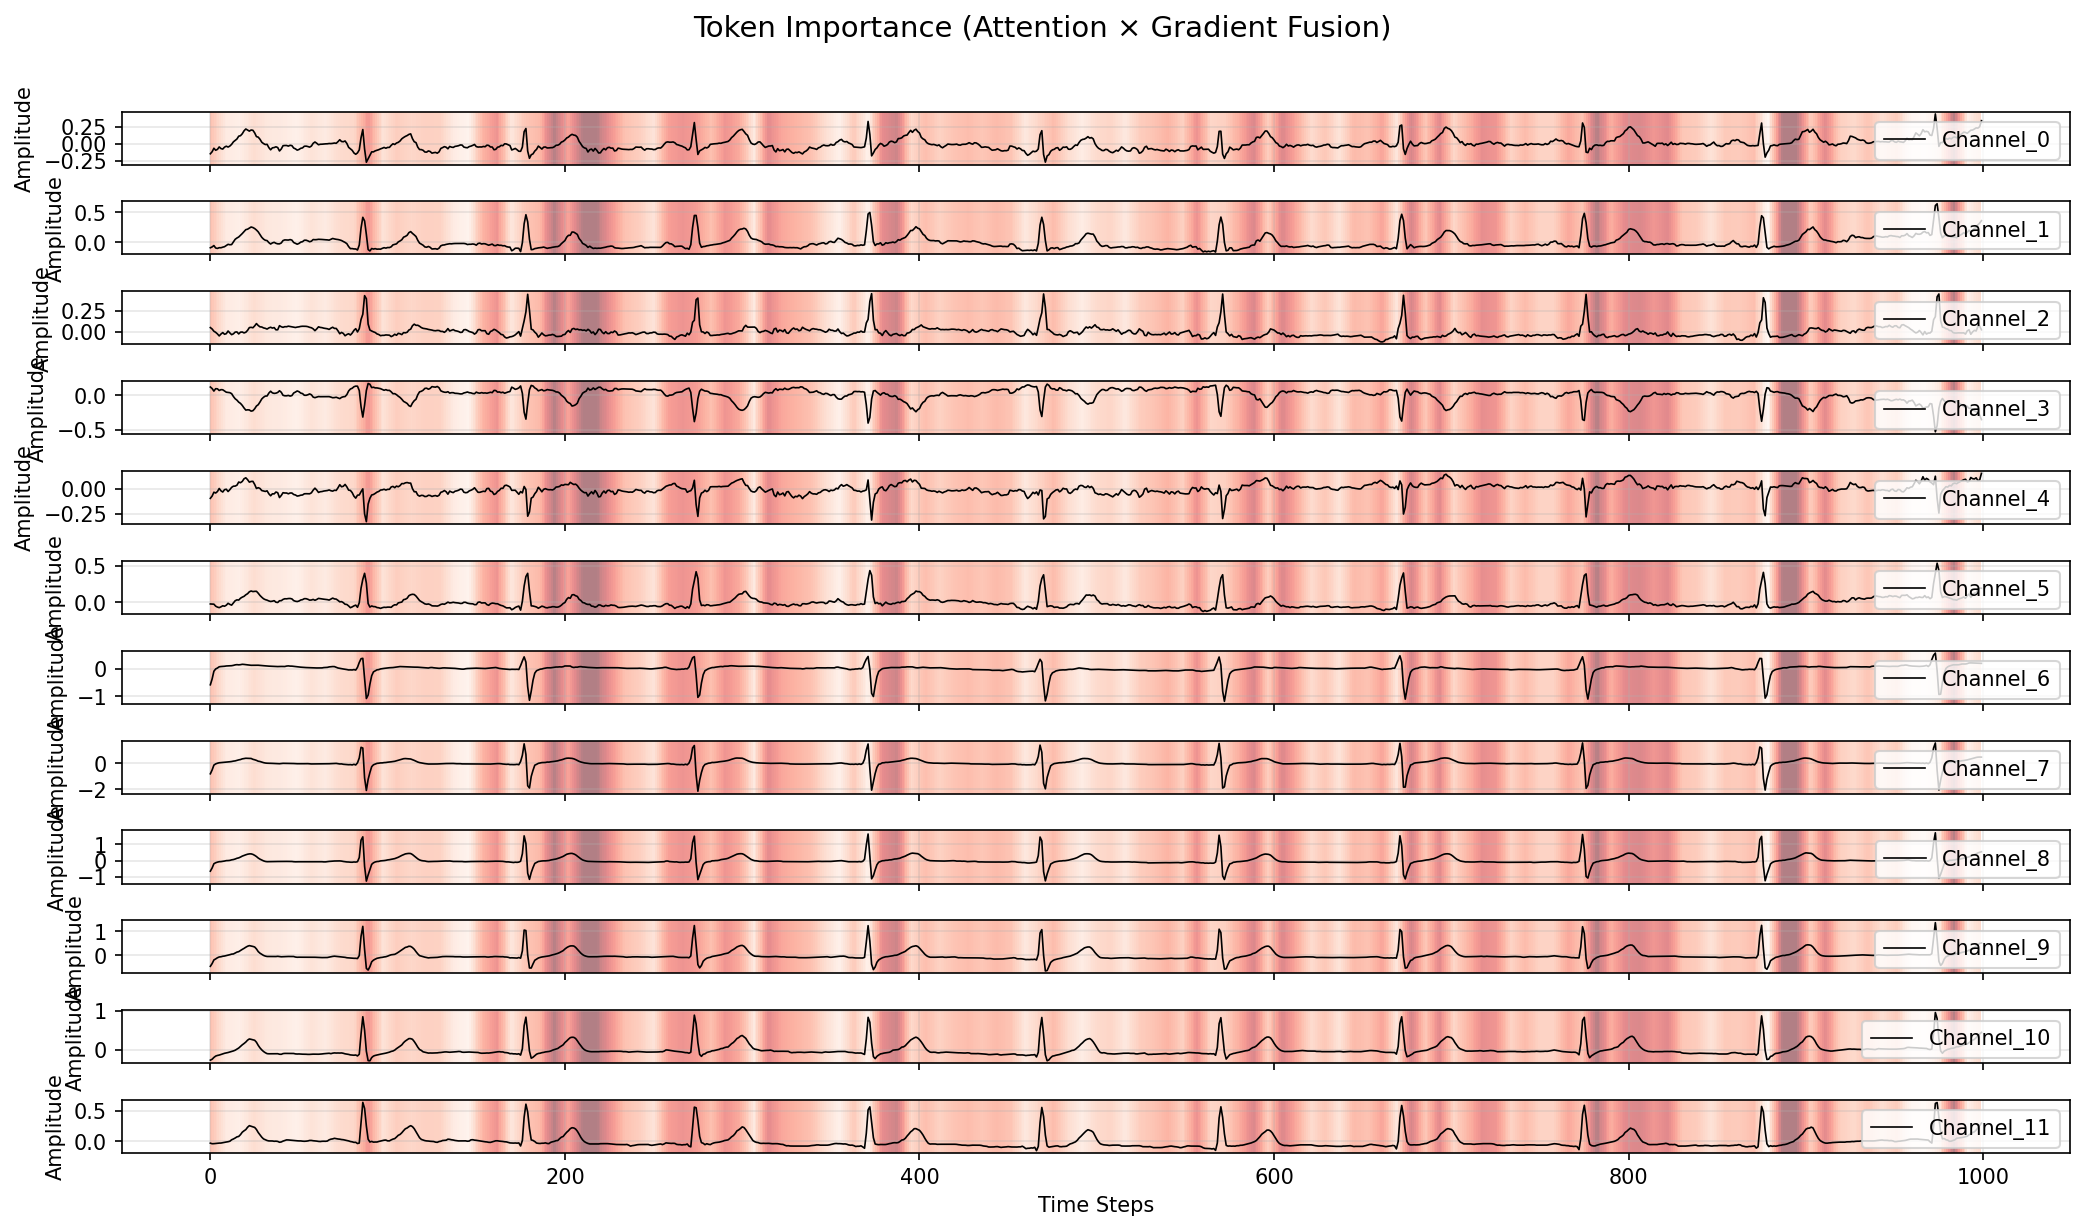
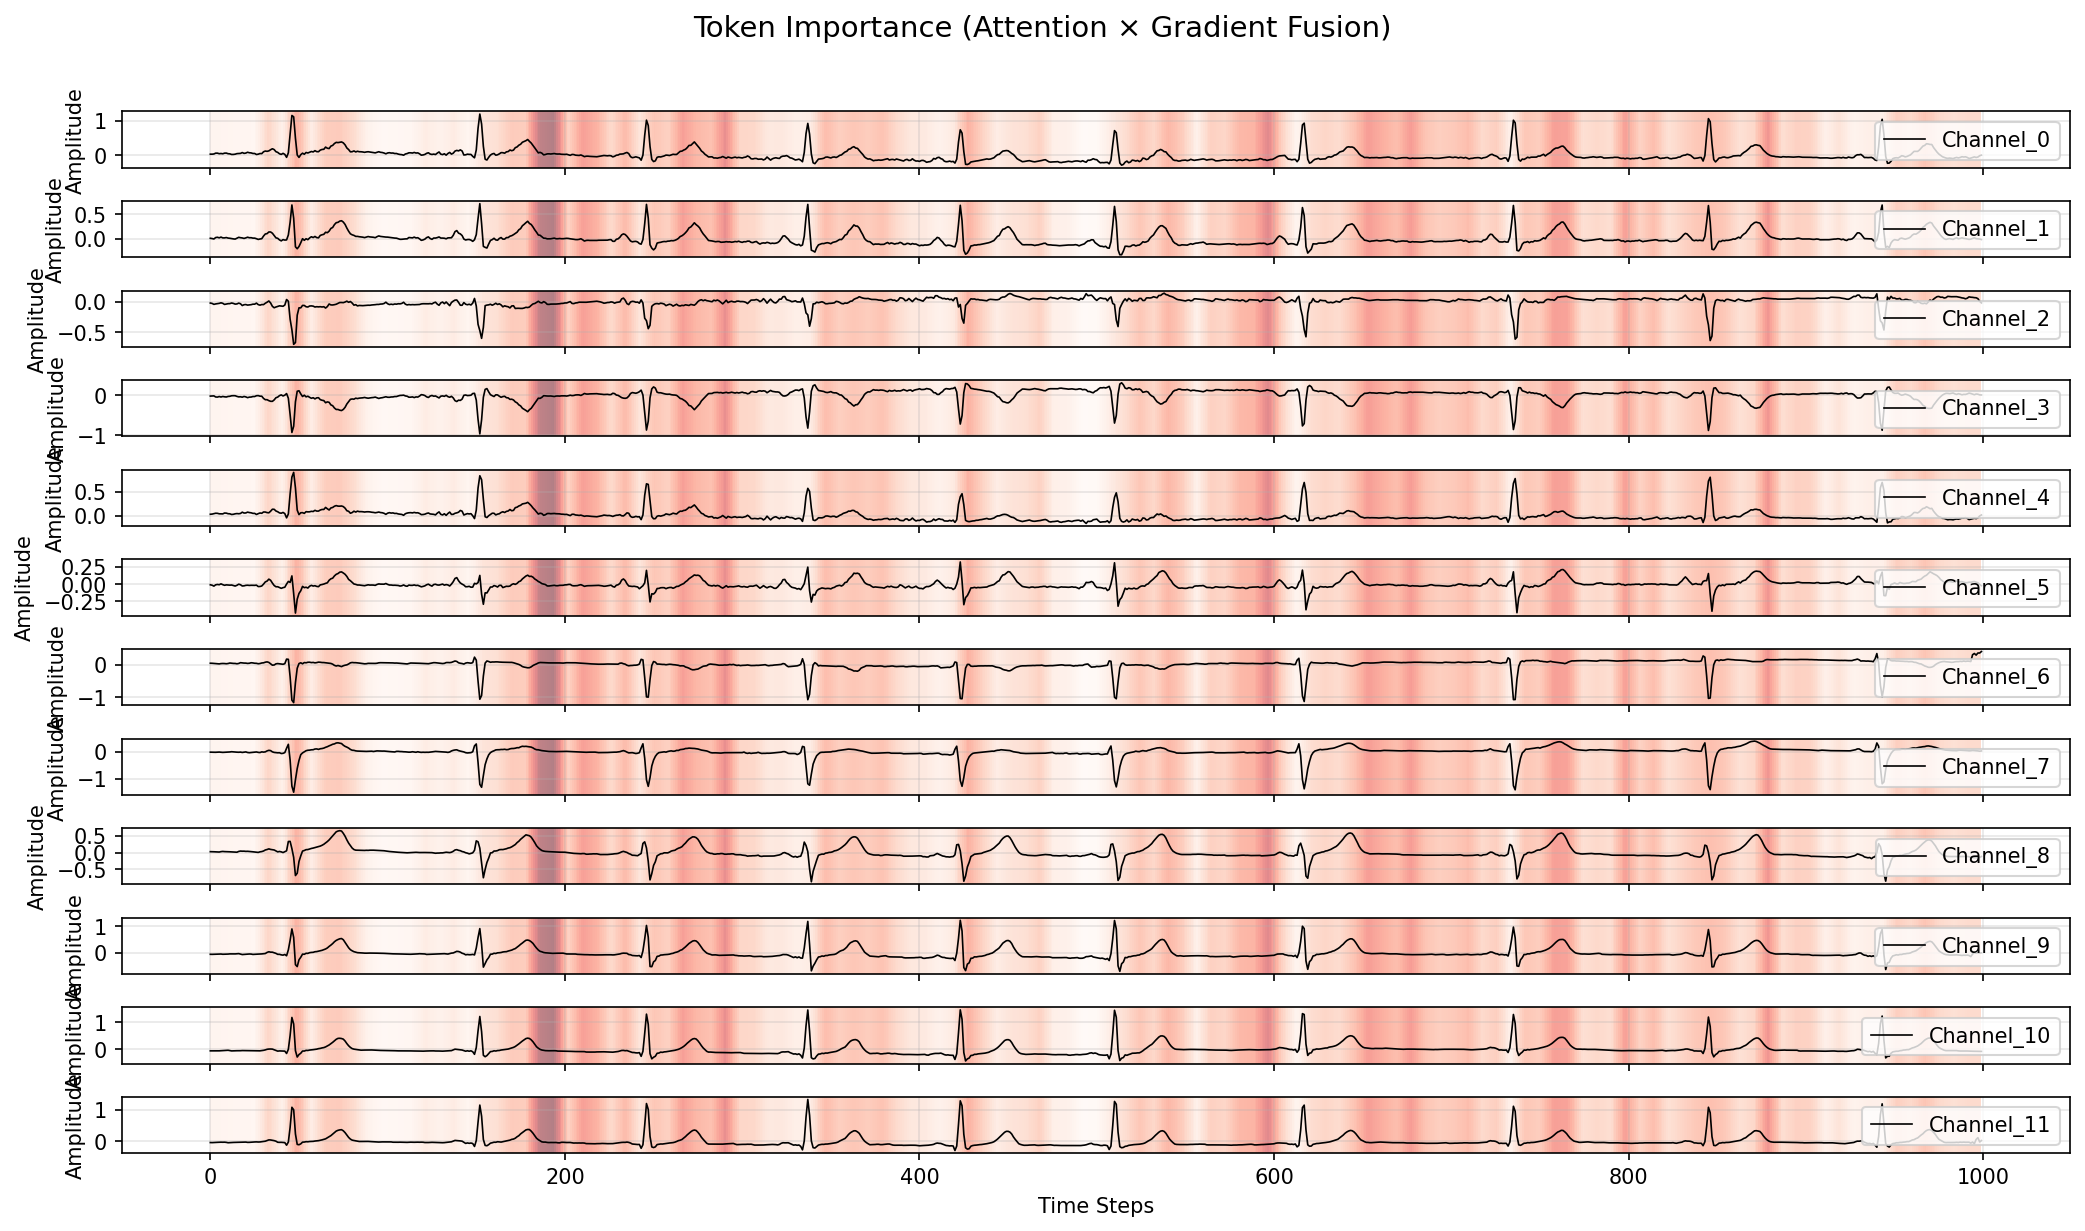
update

diff --git a/visualization/heatmap.py b/visualization/heatmap.py
@@ -351,6 +351,7 @@ class HeatmapRenderer:
         save_path: Optional[str] = None,
         background_image: Optional[Tensor] = None,
         alpha: float = 0.6,
+        original_signal: Optional[Tensor] = None,  # 新增：原始波形数据
     ) -> Optional[Figure]:
         """
         渲染四象限图，使用离散 colormap（4 种颜色）。
@@ -362,6 +363,7 @@ class HeatmapRenderer:
             save_path: 保存路径，None 则返回 Figure，传入则保存并 close。
             background_image: 背景原图 (C, H, W) 或 (H, W, C)，如果有则叠加显示。
             alpha: 四象限图透明度（0-1），默认 0.6。
+            original_signal: 原始 1D 波形数据 (1, C, L) 或 (C, L)，用于叠加显示。
     
         Returns:
             Figure 对象（save_path=None 时）或 None（保存后 close）。
@@ -376,9 +378,58 @@ class HeatmapRenderer:
         # 处理 1D 序列数据：(1, L, 1) -> 展平为水平条形图
         if arr.ndim == 3 and arr.shape[0] == 1 and arr.shape[2] == 1:
             arr_1d = arr[0, :, 0]  # (L,)
-            # 创建水平条形图
             L = len(arr_1d)
-            im = ax.imshow(arr_1d.reshape(1, -1), cmap=cmap_q, norm=norm, 
+            
+            # 如果有原始波形数据，创建双子图
+            if original_signal is not None:
+                fig, (ax1, ax2) = plt.subplots(2, 1, figsize=(self.figsize[0], self.figsize[1]*1.3), 
+                                               dpi=self.dpi, gridspec_kw={'height_ratios': [4, 1]})
+                
+                # 上图：原始波形
+                sig = original_signal.detach().cpu().float()
+                
+                # 处理 batch 维度：取第一个样本
+                if sig.ndim == 3:
+                    sig = sig[0]  # (B, C, L) -> (C, L)
+    
+                # 处理多导联：取平均或第一个
+                if sig.ndim == 2:
+                    if sig.shape[0] > 1:
+                        sig = sig.mean(dim=0)  # (C, L) -> (L,) 多导联平均
+                    else:
+                        sig = sig.squeeze(0)  # (1, L) -> (L,)
+                
+                # 归一化波形到 [-1, 1]
+                sig_max = sig.abs().max()
+                if sig_max > 0:
+                    sig = sig / sig_max
+                
+                ax1.plot(sig.numpy(), color='#2c3e50', linewidth=0.8, alpha=0.8)
+                ax1.set_ylabel("Normalized Amplitude", fontsize=9)
+                ax1.set_title(title if title else "Original Signal + Quadrant Analysis", fontsize=11)
+                ax1.grid(True, alpha=0.3)
+                ax1.set_xticks([])
+                
+                # 下图：四象限分布
+                im = ax2.imshow(arr_1d.reshape(1, -1), cmap=cmap_q, norm=norm,
+                               interpolation="nearest", aspect="auto")
+                ax2.set_xlim(0, L)
+                ax2.set_yticks([])
+                ax2.set_xlabel("Sequence Position (Token)", fontsize=9)
+                
+                # 添加图例
+                labels = ["Core Discriminative", "Redundant Attention",
+                          "Potential Influence", "Irrelevant"]
+                import matplotlib.patches as mpatches
+                patches = [mpatches.Patch(color=self._QUADRANT_COLORS[i], label=labels[i])
+                           for i in range(4)]
+                ax2.legend(handles=patches, loc="lower right", fontsize=7)
+                
+                plt.tight_layout()
+                return self._save_and_close(fig, save_path)
+            
+            # 无波形数据：仅显示四象限（继续执行后续代码）
+            im = ax.imshow(arr_1d.reshape(1, -1), cmap=cmap_q, norm=norm,
                           interpolation="nearest", aspect="auto")
             ax.set_xlim(0, L)
             ax.set_yticks([])
@@ -404,8 +455,8 @@ class HeatmapRenderer:
             ax.set_title(title, fontsize=11)
             
         # 添加图例
-        labels = ["Core Discriminative\n(核心判别区)", "Redundant Attention\n(冗余关注区)",
-                  "Potential Influence\n(潜在影响区)", "Irrelevant\n(无关区域)"]
+        labels = ["Core Discriminative", "Redundant Attention",
+                  "Potential Influence", "Irrelevant"]
         import matplotlib.patches as mpatches
         patches = [mpatches.Patch(color=self._QUADRANT_COLORS[i], label=labels[i])
                    for i in range(4)]

diff --git a/pipeline.py b/pipeline.py
@@ -1119,7 +1119,8 @@ class AnalysisPipeline:
                         fig = self._heatmap_renderer.render_quadrant_map(
                             quad_map_1d.unsqueeze(0).unsqueeze(-1),  # 转为 (1, L, 1) 用于渲染
                             title=f"Four Quadrant Analysis (Sequence Data, Layer {first_layer})",
-                            save_path=quad_viz_path
+                            save_path=quad_viz_path,
+                            original_signal=self._last_input_data if hasattr(self, '_last_input_data') else None  # 传入原始波形数据
                         )
                         saved_paths["quadrant_viz_seq"] = quad_viz_path
                         logger.info("已生成序列四象限热力图：%s", quad_viz_path)

diff --git a/analyze_ecg_model.py b/analyze_ecg_model.py
@@ -235,12 +235,6 @@ def main():
                 if key in vis_paths:
                     logger.info(f"  ✓ {key}: {desc}")
             
-            logger.info("\n【已弃用的图表】:")
-            if 'attention_heatmap' not in vis_paths:
-                logger.info("  ❌ attention_heatmap.png 已成功弃用（不再作为主要输出）")
-            else:
-                logger.warning("  ⚠ attention_heatmap.png 仍然存在（应被移除）")
-        
         # 原始张量路径
         if 'raw_tensors_path' in results:
             logger.info(f"\n原始张量已保存：{results['raw_tensors_path']}")
